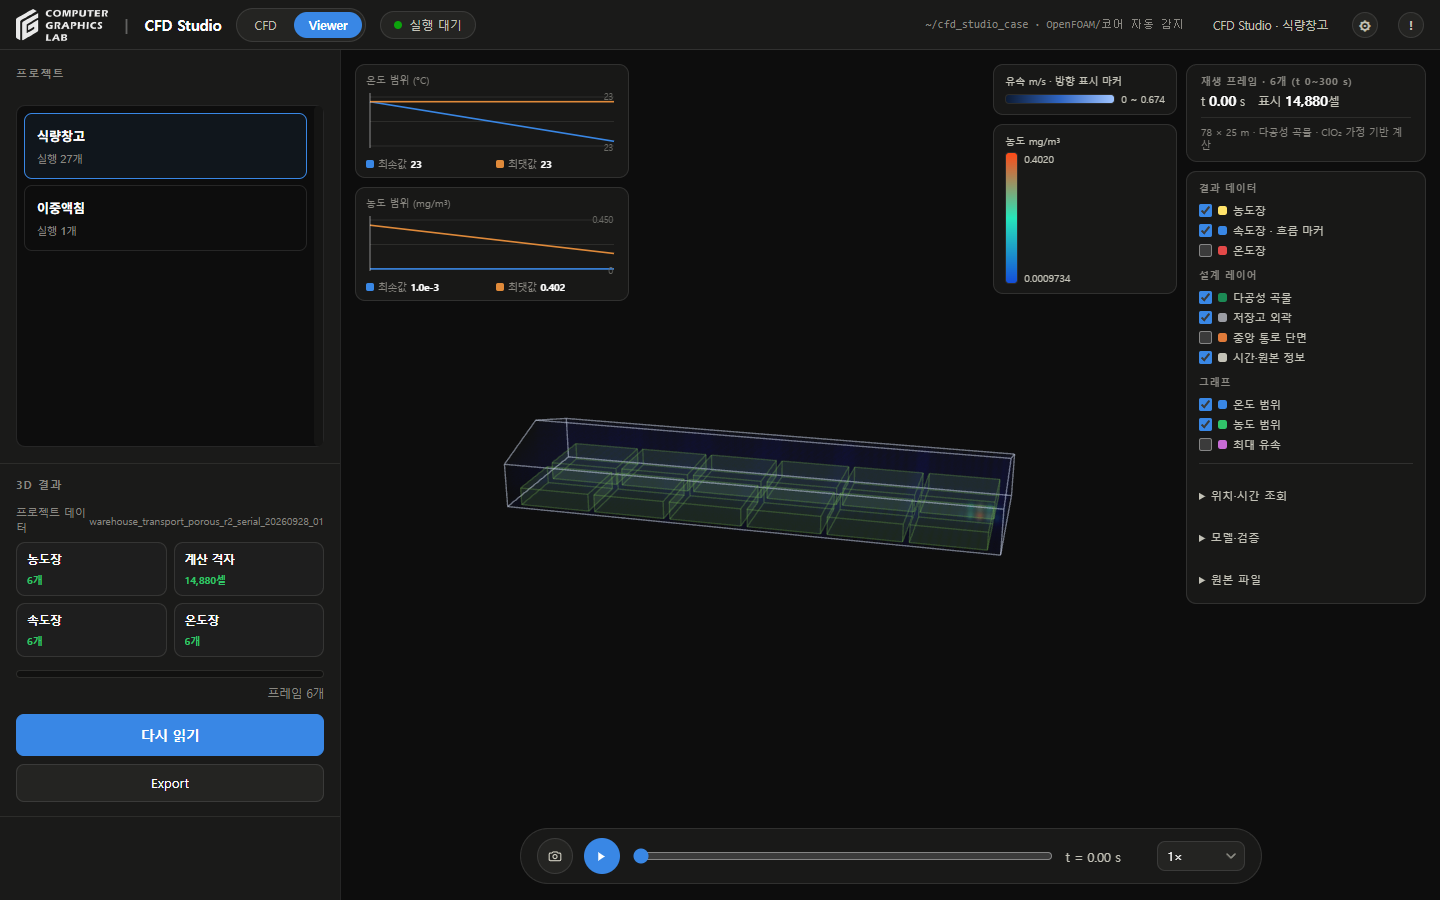
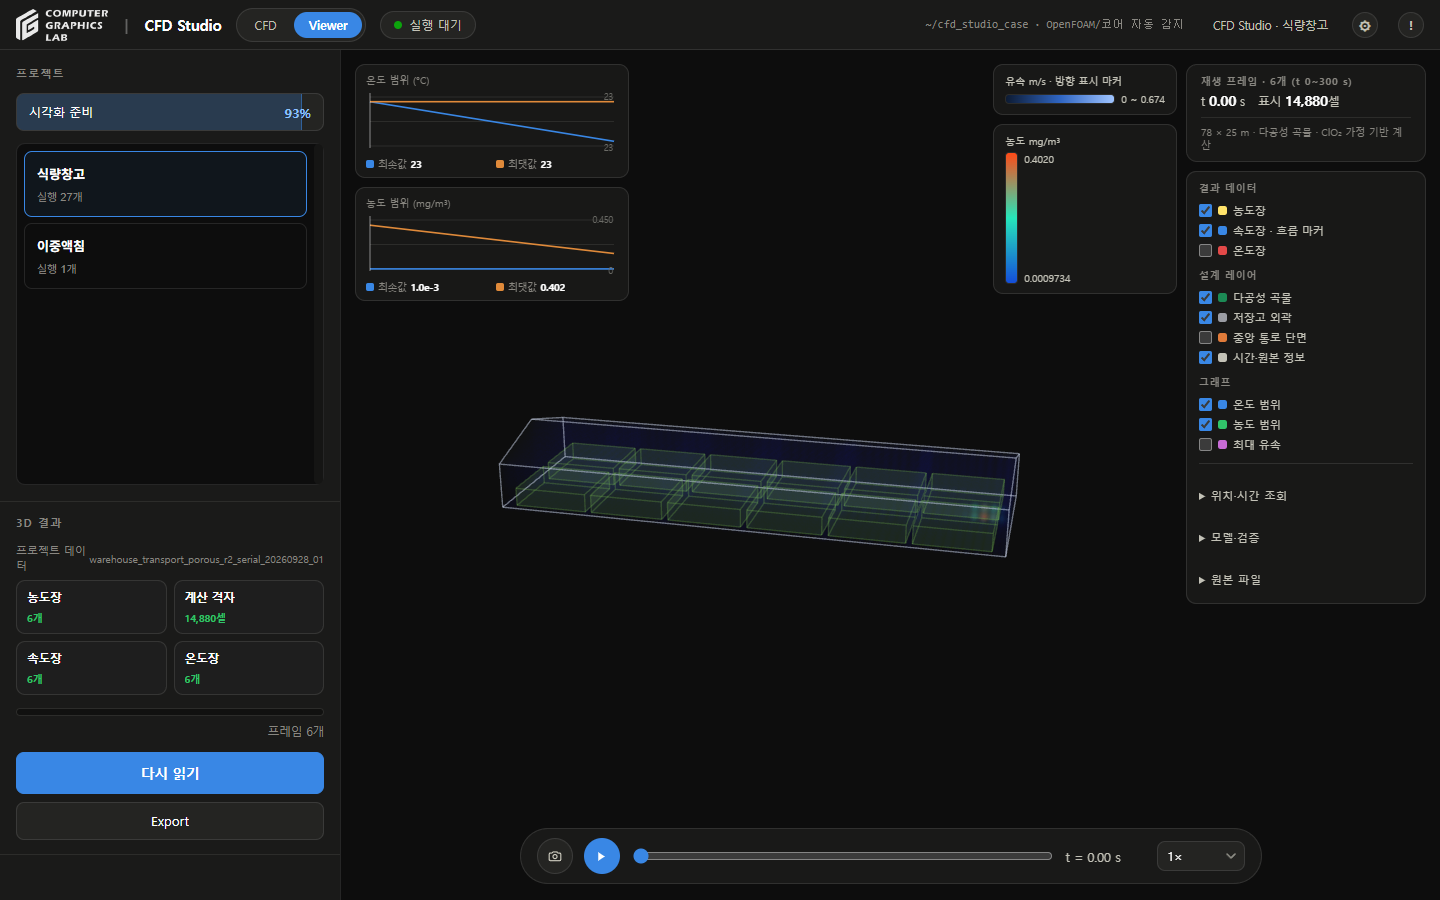
Preserve project action position and unify rounded disclosure menus

diff --git a/cfd_studio/execution_workspace.js b/cfd_studio/execution_workspace.js
@@ -15,9 +15,27 @@
     return value;
   }
   function currentProject(){return data.projects.find(p=>p.id===projectId);}
+  function visualizationProgress(runs=[]){
+    const ready=runs.filter(r=>r.has_results&&r.result_status==='ready').length,total=runs.length;
+    return {ready,total,percent:total?Math.round(100*ready/total):0};
+  }
+  function renderSidebarAction(){
+    const control=$('ewCreateProject');if(!control)return;
+    const viewer=document.body.classList.contains('execution-viewer');
+    control.classList.toggle('ew-visualization-progress',viewer);
+    if(!viewer){control.textContent='새 프로젝트';control.title='새 프로젝트';control.removeAttribute('aria-label');control.onclick=createProject;return;}
+    const {ready,total,percent}=visualizationProgress(currentProject()?.runs);
+    const summary=`시각화 준비 ${percent}% · ${ready}/${total} Case`;
+    control.replaceChildren();control.title=summary+' · 클릭하여 실행 목록 보기';control.setAttribute('aria-label',summary+' · 실행 목록 보기');
+    const fill=node('span',null,'ew-visualization-fill');fill.style.width=percent+'%';
+    const label=node('span','시각화 준비','ew-visualization-label');
+    const count=node('span',`${percent}%`, 'ew-visualization-percent');
+    const gauge=node('span',null,'ew-visualization-gauge');gauge.setAttribute('role','progressbar');gauge.setAttribute('aria-label','프로젝트 시각화 준비율');gauge.setAttribute('aria-valuemin','0');gauge.setAttribute('aria-valuemax','100');gauge.setAttribute('aria-valuenow',String(percent));gauge.setAttribute('aria-valuetext',`${ready}/${total} Case 준비됨`);gauge.append(fill);
+    control.append(gauge,label,count);control.onclick=()=>{showList();$('ewSearch').focus();};
+  }
   function button(text, action, cls='btn') {const b=node('button',text,cls); b.type='button'; b.onclick=action; return b;}
   function message(text){$('ewMessage').textContent=text;}
-  function showList(){viewMode='cfd';suspendWarehouseViewer();setPlay(false,true);setMode('cfd');document.body.classList.remove('execution-viewer','warehouse-viewer');$('appContext').textContent='CFD Studio · '+(currentProject()?.name||'프로젝트');}
+  function showList(){viewMode='cfd';suspendWarehouseViewer();setPlay(false,true);setMode('cfd');document.body.classList.remove('execution-viewer','warehouse-viewer');renderSidebarAction();$('appContext').textContent='CFD Studio · '+(currentProject()?.name||'프로젝트');}
   function renderProjects() {
     const list=$('ewProjects');
     const signature=JSON.stringify([projectId,data.projects.map(p=>[p.id,p.name,p.runs.length])]);
@@ -30,7 +48,7 @@
     $('ewTitle').textContent=currentProject()?.name||'프로젝트';
     $('ewDescription').textContent=currentProject()?.description||'';
     $('ewDefault').textContent='기본 프리셋: '+(presets.find(p=>p.id===currentProject()?.default_preset)?.name||'미지정');
-    $('ewNewRun').disabled=pending;
+    $('ewNewRun').disabled=pending;renderSidebarAction();
     $('appContext').textContent='CFD Studio · '+(currentProject()?.name||'프로젝트');
     $('stTxt').textContent=data.busy?'계산 중':'실행 대기';$('stDot').className=data.busy?'dot run':'dot ok';
   }
@@ -67,7 +85,7 @@
     $('ewStatus').replaceChildren();$('ewStats').replaceChildren();$('ewProgress').hidden=true;$('ewRunError').textContent='';$('ewStopLabel').textContent='—';$('ewDifferenceCount').textContent='';$('ewConfigSummary').textContent='';$('ewFacts').textContent='';$('ewView').disabled=true;$('ewSettings').disabled=true;$('ewEnqueue').disabled=true;$('ewFolder').disabled=true;$('ewStop').hidden=true;$('ewDifferences').textContent='';$('ewGoals').textContent='';
   }
   function showDetail(value){
-    detail=value;const row=currentProject()?.runs.find(r=>r.id===value.id);if(row){for(const k of ['result_status','last_saved','numerical_status','has_results','frame_counts'])if(k in value)row[k]=value[k];renderRuns();}$('ewRunTitle').textContent=value.name;$('ewLog').textContent=value.log||'보존된 솔버 로그 없음';
+    detail=value;const row=currentProject()?.runs.find(r=>r.id===value.id);if(row){for(const k of ['result_status','last_saved','numerical_status','has_results','frame_counts'])if(k in value)row[k]=value[k];renderRuns();renderSidebarAction();}$('ewRunTitle').textContent=value.name;$('ewLog').textContent=value.log||'보존된 솔버 로그 없음';
     $('ewStatus').replaceChildren(badge(stateText(value),value.status));
     $('ewConfigSummary').textContent=CFDSettings.summary(value.config);$('ewSettings').disabled=false;
     const checks=value.checks||{};
@@ -95,7 +113,7 @@
     if(detail.can_generate&&(!detail.has_results||detail.result_status==='update')){await prepareResult();return;}
     if(!detail.has_results){showList();message('선택한 실행의 결과가 아직 없습니다. 설정과 로그를 확인하세요.');return;}
     const selected=detail,token=generation;viewMode='viewer';setPlay(false,true);
-    document.body.classList.add('execution-viewer');
+    document.body.classList.add('execution-viewer');renderSidebarAction();
     document.body.classList.toggle('warehouse-viewer',selected.kind==='warehouse');
     cancelViewerLoad();
     if(selected.kind!=='warehouse'){restoreWarehouseUI();VIZCFG=selected.config||null;VPROJ=selected.rid;}
@@ -122,7 +140,7 @@
   }
   function stopText(t,end){if(!t)return end==null?'—':end+' s';return t.mode==='frames'?t.frames+' 프레임 · 초기 '+(t.include_initial?'포함':'제외'):t.mode==='time'?t.time_s+' s':'수렴 기준';}
   function resultText(r){return {ready:'준비됨',update:'새 데이터',preparing:'변환 중',none:'없음'}[r.result_status]||'없음';}
-  function renderPresets(){const select=$('ewPresetPicker'),value=select.value,signature=JSON.stringify(presets);if(select.dataset.signature===signature)return;select.dataset.signature=signature;select.replaceChildren(new Option('프리셋 선택',''));for(const p of presets)select.append(new Option(p.name,p.id));select.value=presets.some(p=>p.id===value)?value:'';}
+  function renderPresets(){const select=$('ewPresetPicker'),value=select.value,signature=JSON.stringify(presets);if(select.dataset.signature===signature)return;select.dataset.signature=signature;select.replaceChildren(new Option('프리셋 리스트',''));for(const p of presets)select.append(new Option(p.name,p.id));select.value=presets.some(p=>p.id===value)?value:'';}
   function renderQueue(){const q=data.queue||{},box=$('ewQueue');box.replaceChildren();$('ewQueueCard').hidden=!q.active&&!q.order?.length&&!q.failure&&!q.service_error;const all=data.projects.flatMap(p=>p.runs);$('ewQueueState').textContent=q.failure?'실패 확인 필요':q.paused?(q.active?'현재 실행 후 일시정지':'일시정지'):q.active||q.order?.length?'순차 실행':'대기열 완료';
     for(const [i,id] of (q.order||[]).entries()){const r=all.find(r=>r.id===id),row=node('div',null,'ew-bar ew-queue-row');row.append(node('span',(i+1)+'. '+(data.projects.find(p=>p.id===r?.project_id)?.name||'프로젝트')+' / '+(r?.name||id)));const move=delta=>{const order=[...q.order],j=i+delta;if(j<0||j>=order.length)return;[order[i],order[j]]=[order[j],order[i]];queueAction('reorder',{ids:order});};const up=button('↑',()=>move(-1)),down=button('↓',()=>move(1));up.title='실행 순서 위로';down.title='실행 순서 아래로';up.disabled=i===0;down.disabled=i===q.order.length-1;row.append(up,down,button('제외',()=>queueAction('remove',{id})));box.append(row);}
     $('ewQueueStart').disabled=!!q.failure||(!q.order?.length&&!q.active);$('ewQueuePause').disabled=!!q.paused||(!q.active&&!q.order?.length);$('ewFailures').hidden=!q.failure;$('ewRetry').hidden=!q.failure;$('ewSkip').hidden=!q.failure;
@@ -158,7 +176,7 @@
   async function prepareResult(){const selected=detail;if(!selected)return;try{await api('/result',{id:selected.id});message('누락된 결과 확인 중');await refresh();}catch(e){message(e.message);}}
   function mount(){
     const style=node('style');style.textContent=`
-body.grouped #side>section{flex:0 0 auto;min-height:auto}body.grouped #secRun,body.grouped #secData{display:none!important}body.grouped.execution-viewer #secData{display:block!important}body.grouped.execution-viewer #ewPresets,body.grouped.execution-viewer #ewCreateProject{display:none!important}body.grouped #projList2,body.grouped #secData>.fgroup,body.grouped #secData>button[onclick="newProj()"]{display:none!important}
+body.grouped #side>section{flex:0 0 auto;min-height:auto}body.grouped #secRun,body.grouped #secData{display:none!important}body.grouped.execution-viewer #secData{display:block!important}body.grouped.execution-viewer #ewPresets{display:none!important}body.grouped #projList2,body.grouped #secData>.fgroup,body.grouped #secData>button[onclick="newProj()"]{display:none!important}
 body.grouped #dash{display:block!important;padding:20px}body.grouped.execution-viewer #dash{display:none!important}body.grouped #dash>.dlog{padding:0;border:0;background:none;border-radius:0;display:block}body.grouped #dash>:not(.dlog),body.grouped .dlog>pre,body.grouped .dlog>.dlab{display:none!important}
 #ewSidebar{padding:16px}#ewSidebar h2{font-size:11px;color:var(--muted);font-weight:600;margin:0 0 12px}#ewProjects{display:grid;align-content:start;gap:6px;margin:12px 0 0;height:clamp(240px,38vh,400px);overflow-y:scroll;overflow-x:hidden;overscroll-behavior:contain;scrollbar-gutter:stable;padding:7px;background:var(--page);border:1px solid var(--line);border-radius:9px}#ewProjects::-webkit-scrollbar{width:9px}#ewProjects::-webkit-scrollbar-track{background:#151514;border-radius:8px}#ewProjects::-webkit-scrollbar-thumb{background:#464642;border:2px solid #151514;border-radius:8px}.ew-project{width:100%;text-align:left;padding:12px;border:1px solid var(--line);background:transparent;color:var(--ink);border-radius:8px;cursor:pointer}.ew-project strong,.ew-project span{display:block}.ew-project strong{font-size:13px}.ew-project span{font-size:11px;color:var(--muted);margin-top:5px}.ew-project.selected{border-color:var(--s1);background:rgba(57,135,229,.07)}
 #ewPresets{border:0;border-top:1px solid var(--line);margin-top:12px;padding:18px 0 0}#ewPresets .ew-bar{display:grid;grid-template-columns:1fr 1fr;gap:7px}#ewPresetPicker{margin-bottom:10px}
@@ -172,10 +190,38 @@ body.grouped #dash{display:block!important;padding:20px}body.grouped.execution-v
 @media(max-width:1100px){.ew-layout{grid-template-columns:1fr}#ewRows{grid-template-columns:minmax(0,1fr);max-height:250px;min-height:100px}.ew-heading{align-items:flex-start}body.grouped #dash{padding:14px}}@media(max-width:720px){.ew-heading{display:block}.ew-heading>.ew-bar{margin-top:12px}#ewStats{grid-template-columns:1fr;gap:12px}.ew-stat{border:0;padding:0}}
 
 #ewRunCount{margin-left:6px}
-#ewPanel details>summary{display:flex;align-items:center;gap:10px;list-style:none;padding:10px 12px;border:1px solid var(--line);border-radius:7px;background:var(--surface2);color:var(--ink2)}#ewPanel details>summary::-webkit-details-marker{display:none}#ewPanel details>summary:before{content:'';width:6px;height:6px;border-right:1.5px solid currentColor;border-bottom:1.5px solid currentColor;transform:rotate(-45deg);flex:none;transition:transform .15s}#ewPanel details[open]>summary:before{transform:rotate(45deg)}#ewPanel details>summary:hover{border-color:var(--s1)}#ewPanel details>summary:focus-visible{outline:2px solid var(--s1);outline-offset:2px}.ew-disclosure-state{font-size:10px;color:var(--muted);margin-left:auto;white-space:nowrap}#ewDifferenceCount{float:none;font-size:10px}#ewQueueCard>summary{background:transparent;border:0;padding:0}
+/* Shared disclosure surface: right chevron and a continuous rounded panel. */
+body.grouped details>summary,#ewPanel details>summary{position:relative;display:flex;align-items:center;gap:10px;list-style:none;padding:11px 36px 11px 12px!important;min-height:36px;box-sizing:border-box;border:0;border-radius:9px;background:var(--surface2);color:var(--ink2);letter-spacing:0}
+body.grouped details>summary::-webkit-details-marker,#ewPanel details>summary::-webkit-details-marker{display:none}
+body.grouped details>summary::before,#ewPanel details>summary::before{display:none!important}
+body.grouped details>summary::after,#ewPanel details>summary::after{content:'';position:absolute;right:14px;top:50%;width:6px;height:6px;border-right:1.5px solid var(--muted);border-bottom:1.5px solid var(--muted);transform:translateY(-65%) rotate(45deg);transition:transform .15s}
+body.grouped details[open]>summary::after,#ewPanel details[open]>summary::after{transform:translateY(-20%) rotate(225deg)}
+body.grouped details>summary:hover,#ewPanel details>summary:hover{background:#2c2c29;color:var(--ink)}
+body.grouped details>summary:focus-visible,#ewPanel details>summary:focus-visible{outline:2px solid var(--s1);outline-offset:-2px}
+#ewPanel .ew-disclosure-state{display:none}#ewDifferenceCount{float:none;font-size:10px;margin-left:auto}
+body.grouped details,#ewPanel #ewDifferenceBox,#ewPanel #ewLogBox,#ewPanel #ewQueueCard{border:1px solid var(--line);border-radius:10px;background:var(--surface);padding:0;overflow:hidden}
+body.grouped details[open]>summary,#ewPanel details[open]>summary{border-radius:9px 9px 0 0;box-shadow:0 1px 0 var(--line);position:relative;z-index:1}
+body.grouped details> :not(summary){margin-left:12px;margin-right:12px}
+#ewPanel #ewLogBox{margin:0 20px 16px}#ewPanel #ewLog{margin:12px;height:180px}#ewPanel #ewDifferenceBox{margin-top:12px}#ewPanel #ewQueueCard{margin-top:14px}#ewPanel #ewQueueCard>.ew-queue-actions{margin:12px}
+body.grouped #warehouseDetails details{margin-top:8px}body.grouped #warehouseDetails details>summary{font-size:11px}body.grouped #warehouseDetails details>form{margin-top:12px}body.grouped #warehouseDetails details>p{margin-top:12px;margin-bottom:12px}
+/* Keep native select keyboard, focus and disabled-option behavior. */
+@supports (appearance:base-select){
+ body.grouped select:not([multiple]),body.grouped select:not([multiple])::picker(select){appearance:base-select}
+ body.grouped select:not([multiple]){anchor-name:--studio-select;anchor-scope:--studio-select;background-image:none!important;display:inline-flex;align-items:center;gap:12px;padding-right:12px!important;border-radius:8px;transition:border-color .15s}
+ body.grouped select:not([multiple])::picker-icon{content:'';width:6px;height:6px;flex:none;border-right:1.5px solid var(--muted);border-bottom:1.5px solid var(--muted);transform:rotate(45deg);margin-left:auto;margin-right:2px;transition:transform .15s}
+ body.grouped select:not([multiple]):open{border-radius:8px 8px 0 0;border-color:rgba(255,255,255,.28)}
+ body.grouped select:not([multiple]):open::picker-icon{transform:rotate(225deg)}
+ body.grouped select:not([multiple])::picker(select){position-anchor:--studio-select;position-try-order:normal;position-area:none;inset:auto;top:anchor(bottom);left:anchor(left);width:anchor-size(width);box-sizing:border-box;position-try-fallbacks:flip-block;border:1px solid rgba(255,255,255,.28);border-top:0;border-radius:0 0 10px 10px;background:var(--surface2);color:var(--ink);padding:6px;margin:0;max-height:min(320px,45vh);overflow-y:auto;box-shadow:0 12px 24px #0005;font:inherit;font-size:12px}
+ body.grouped select:not([multiple]) option{border-radius:6px;padding:9px 10px;cursor:pointer;white-space:normal;overflow-wrap:anywhere}
+ body.grouped select:not([multiple]) option:checked{background:rgba(57,135,229,.18);color:#8fc3ff}body.grouped select:not([multiple]) option:hover{background:rgba(255,255,255,.08)}body.grouped select:not([multiple]) option:disabled{color:var(--muted);opacity:.6;cursor:default}
+ body.grouped select:not([multiple]) option::checkmark{color:#8fc3ff}
+}
+
+
+#ewCreateProject{position:relative;isolation:isolate;overflow:hidden;width:100%;height:38px;min-height:38px;box-sizing:border-box}#ewCreateProject.ew-visualization-progress{justify-content:space-between;padding:0 12px;gap:8px}#ewCreateProject .ew-visualization-gauge{position:absolute;inset:0;z-index:-1;pointer-events:none}#ewCreateProject .ew-visualization-fill{display:block;height:100%;background:rgba(57,135,229,.23);border-right:1px solid rgba(57,135,229,.5);transition:width .25s}#ewCreateProject .ew-visualization-label{font-size:12px}#ewCreateProject .ew-visualization-percent{font-size:13px;font-weight:600;color:#8fc3ff;font-variant-numeric:tabular-nums}
 `;document.head.append(style);
     const sidebar=node('section',null);sidebar.id='ewSidebar';const create=button('새 프로젝트',createProject);create.id='ewCreateProject';sidebar.append(node('h2','프로젝트'),create);
-    const projects=node('div');projects.id='ewProjects';projects.setAttribute('aria-label','프로젝트 목록');projects.tabIndex=0;sidebar.append(projects);const presetBox=node('section');presetBox.id='ewPresets';presetBox.append(node('h2','설정 프리셋'));const presetSelect=node('select');presetSelect.id='ewPresetPicker';presetSelect.setAttribute('aria-label','설정 프리셋');presetBox.append(presetSelect);const actions=node('div',null,'ew-bar');actions.append(button('새로 만들기',()=>presetEditor('new')),button('열기',()=>presetEditor('view')),button('복제',()=>presetEditor('copy')),button('이름 변경',()=>presetEditor('rename')));presetBox.append(actions);sidebar.append(presetBox);$('side').prepend(sidebar);
+    const projects=node('div');projects.id='ewProjects';projects.setAttribute('aria-label','프로젝트 목록');projects.tabIndex=0;sidebar.append(projects);const presetBox=node('section');presetBox.id='ewPresets';presetBox.append(node('h2','설정 프리셋'));const presetSelect=node('select');presetSelect.id='ewPresetPicker';presetSelect.setAttribute('aria-label','프리셋 리스트');presetBox.append(presetSelect);const actions=node('div',null,'ew-bar');actions.append(button('새로 만들기',()=>presetEditor('new')),button('열기',()=>presetEditor('view')),button('복제',()=>presetEditor('copy')),button('이름 변경',()=>presetEditor('rename')));presetBox.append(actions);sidebar.append(presetBox);$('side').prepend(sidebar);
     const panel=node('section');panel.id='ewPanel';panel.innerHTML=`
 <header class="ew-heading"><div><h2 id="ewTitle">프로젝트</h2><p id="ewDescription"></p><p id="ewDefault"></p></div><div class="ew-bar"><button id="ewRename" class="btn">프로젝트 설정</button><button id="ewNewRun" class="btn pri">+CFD Case</button></div></header>
 <p id="ewMessage" role="status"></p>

diff --git a/tests/test_shared_warehouse_viewer.js b/tests/test_shared_warehouse_viewer.js
@@ -11,7 +11,7 @@ const transition=workspace.slice(workspace.indexOf('  async function viewResult(
 function transitionContext(detail){
  const calls=[];
  const ctx={detail,generation:1,viewMode:'cfd',VIZCFG:{_해석유형:'warehouse'},VPROJ:null,
-  document:{body:{classList:{add(){},toggle(){}}}},setPlay(){},cancelViewerLoad(){},
+  document:{body:{classList:{add(){},toggle(){}}}},setPlay(){},cancelViewerLoad(){},renderSidebarAction(){},
   restoreWarehouseUI(){calls.push('restore');},message(t){calls.push(t);},showList(){ctx.viewMode='cfd';},
   setMode(m){assert.equal(ctx.VIZCFG,ctx.detail.config,'selected config must be available before geometry is rendered');calls.push(m);},
   async selVz(rid){calls.push(rid);}};
@@ -25,4 +25,15 @@ test('warehouse to legacy transition prepares the selected model before renderin
 });
 test('Viewer requested while run detail is loading stays pending for automatic entry',async()=>{
  const {ctx,calls}=transitionContext(null);await ctx.viewResult();assert.equal(ctx.viewMode,'viewer');assert.equal(calls.length,1);
+});
+
+
+test('project visualization percentage counts ready Cases and handles empty projects',()=>{
+ const helper=workspace.slice(workspace.indexOf('  function visualizationProgress('),workspace.indexOf('  function renderSidebarAction('));
+ const ctx={};vm.createContext(ctx);vm.runInContext(helper,ctx);
+ assert.equal(ctx.visualizationProgress([]).percent,0);
+ const runs=[{has_results:true,result_status:'ready'},{has_results:true,result_status:'update'},{has_results:false,result_status:'ready'},{has_results:false,result_status:'none'}];
+ const before=JSON.stringify(runs),p=ctx.visualizationProgress(runs);
+ assert.equal(p.ready,1);assert.equal(p.total,4);assert.equal(p.percent,25);assert.equal(JSON.stringify(runs),before);
+ assert.equal(ctx.visualizationProgress([{has_results:true,result_status:'ready'}]).percent,100);
 });

diff --git a/docs/studio-layout-review-20260928.md b/docs/studio-layout-review-20260928.md
@@ -32,13 +32,41 @@
 
 - 실행 선택·설정 보기·실행 목록 묶음 제거
 - 프로젝트 목록: 프리셋 영역 위까지 전용 스크롤 적용
-- Viewer: 프리셋 관리·프로젝트 생성 숨김
+- Viewer: 프리셋 관리 숨김, 새 프로젝트 버튼은 같은 자리의 시각화 준비율 게이지로 전환
 - 이중액침 `3mm_Test` 실행 설정: 별도 프리셋 저장, 원본 설정과 동일성 확인
 - `+CFD Case`: 이름 변경, 프로젝트 화면 우측 상단 유지
-- 펼침 항목: 화살표·펼치기·접기 표시, 키보드 접근 유지
+- 펼침 항목: 오른쪽 화살표 표시, 키보드 접근 유지
 - 실제 Viewer: 기존 6프레임 열람·관리 영역 숨김 확인
 - 관련 JavaScript 검사: 42개 통과
 
 ![CFD](assets/studio-layout-20260928/sidebar-cfd.png)
 
 ![Viewer](assets/studio-layout-20260928/sidebar-viewer.png)
+
+## 전환 연속성
+
+- CFD: 새 프로젝트 버튼
+- Viewer: 같은 위치·크기의 시각화 준비율 게이지
+- 계산: 준비된 Case / 전체 Case, 빈 프로젝트는 0%
+- 게이지 클릭: 실행 목록, CFD 복귀 시 프로젝트 생성 기능 복원
+- 실제 화면: 전환 전후 버튼 308×38 px, 위치 (16, 93), 프로젝트 목록 시작 y=143 동일
+- 현재 식량창고: 25/27 Case, 반올림 93%
+- 생성창 복원·게이지 클릭 동작 확인, 검토 중 새 프로젝트 생성 없음
+- 관련 JavaScript 검사: 43개 통과
+
+## 펼침 메뉴
+
+- 프리셋 기본 표시: **프리셋 리스트**
+- 선택 메뉴·설정 차이·솔버 로그·대기열·Viewer 펼침 항목: 오른쪽 화살표
+- 열린 패널: 제목과 이어지는 둥근 테두리
+- 선택 메뉴: 사용 중인 Chrome의 기본 선택 기능 유지, 모서리·위치 스타일 적용
+- 버튼 아래 공간이 부족할 때: 위쪽으로 열림
+- 키보드 선택·Escape·설정 변경 이벤트·비활성 종료 조건 확인
+- Viewer 위치 조회 패널·화면 하단 재생 배속 메뉴 확인
+- 이전 시각화 준비율 게이지와 전환 위치 유지
+
+![프리셋 리스트](assets/studio-layout-20260928/rounded-preset-menu.png)
+
+![솔버 로그](assets/studio-layout-20260928/rounded-log-panel.png)
+
+![Viewer 패널](assets/studio-layout-20260928/rounded-viewer-panel.png)

diff --git a/docs/CFD-STUDIO-USER-GUIDE.md b/docs/CFD-STUDIO-USER-GUIDE.md
@@ -14,15 +14,19 @@
 - **+CFD Case**: 프로젝트 화면 우측 상단
 - 실행 목록: 실행 선택
 - 오른쪽 실행 카드: 상태·저장 진행·설정·결과 확인
-- **솔버 로그 / 설정 차이**: 펼쳐서 확인
+- **솔버 로그 / 설정 차이**: 오른쪽 화살표로 펼침·접힘
+- 펼친 내용: 제목과 이어지는 둥근 패널
 
 ![프로젝트](assets/studio-layout-20260928/sidebar-cfd.png)
 
 ## 설정 프리셋
 
-- CFD 화면 왼쪽 **설정 프리셋**에서 선택
+- CFD 화면 왼쪽 **프리셋 리스트**에서 선택
 - 이중액침 기존 실행 설정: **이중액침 3mm_Test** 프리셋
 - Viewer: 프리셋 관리 숨김
+- **새 프로젝트** 버튼 자리: Viewer에서는 프로젝트 **시각화 준비율** 표시
+- 준비율: 시각화가 준비된 Case 수 / 전체 Case 수
+- 게이지 클릭: 실행 목록으로 이동
 - **새로 만들기 / 복제**: 별도 이름으로 저장
 - **열기**: 원본 설정 조회
 - **이름 변경**: 사용자 프리셋 이름 변경
